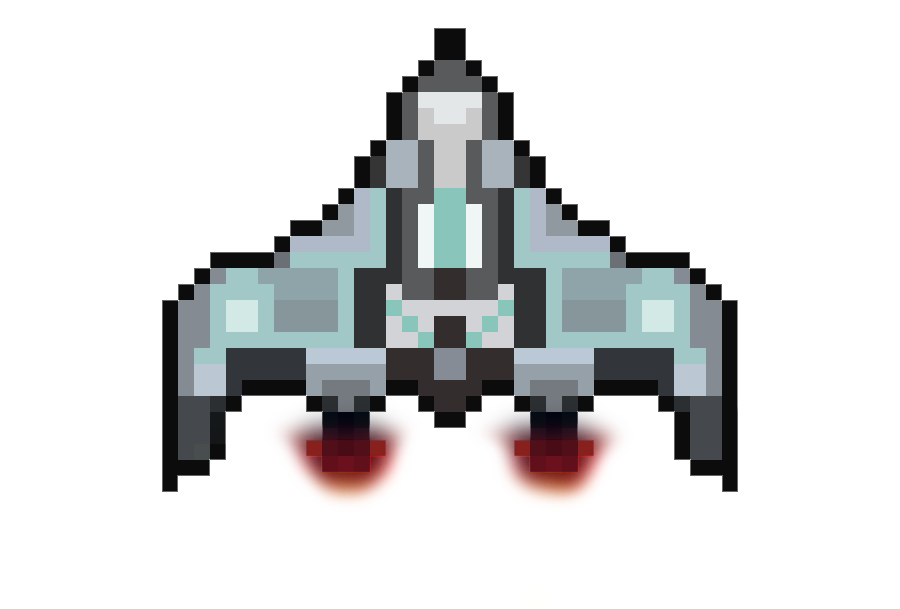
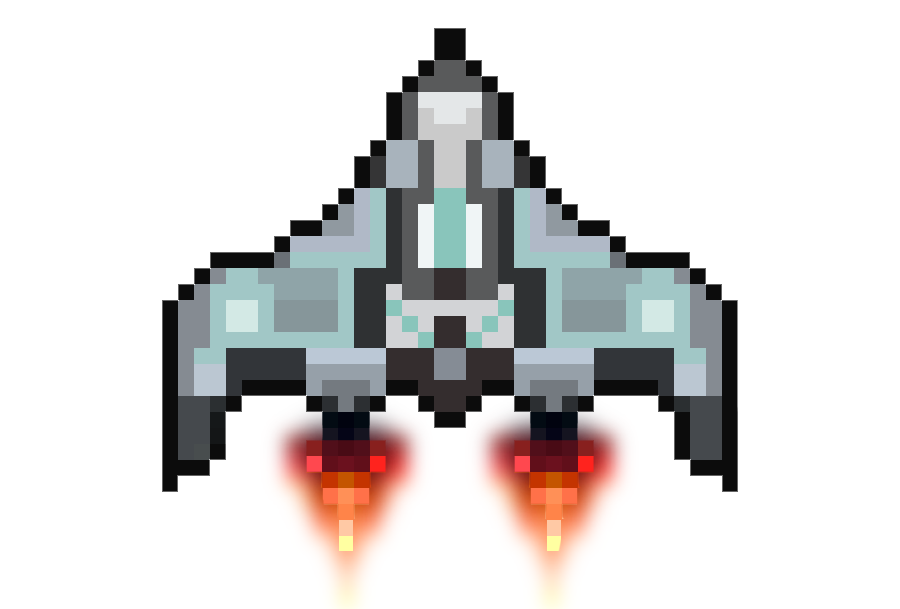
wydłużenie animacji + zmiana kolejności

Changed region(s): [[0.5289, 0.6864, 0.7156, 0.9984], [0.28, 0.6864, 0.4667, 0.9984]]

diff --git a/SpaceShooter.py b/SpaceShooter.py
@@ -453,7 +453,7 @@ def main():
     def redraw_w():
         global ex_count
         WINDOW.blit(BACKGROUND, (0,0))
-        if ex_count >= 60:
+        if ex_count >= 70:
             ex_count=0;
         ex_count+=1
 
